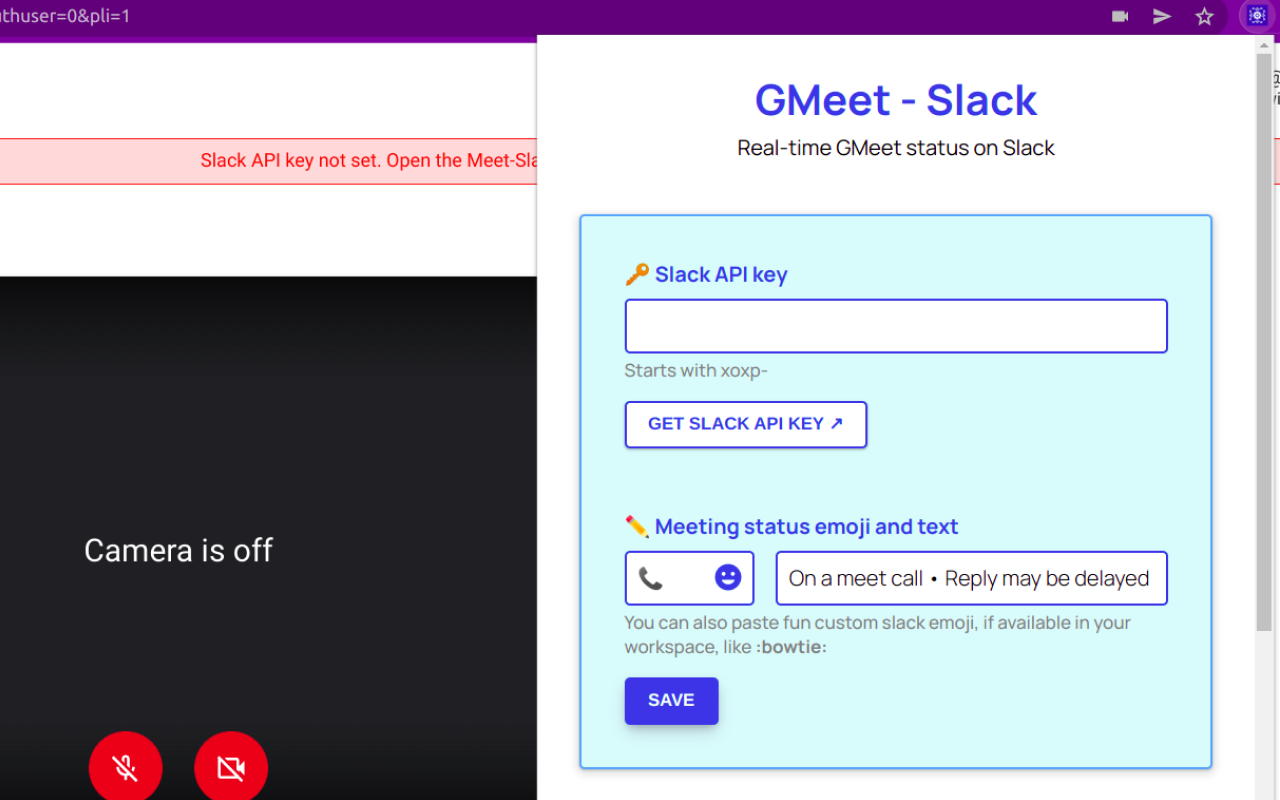
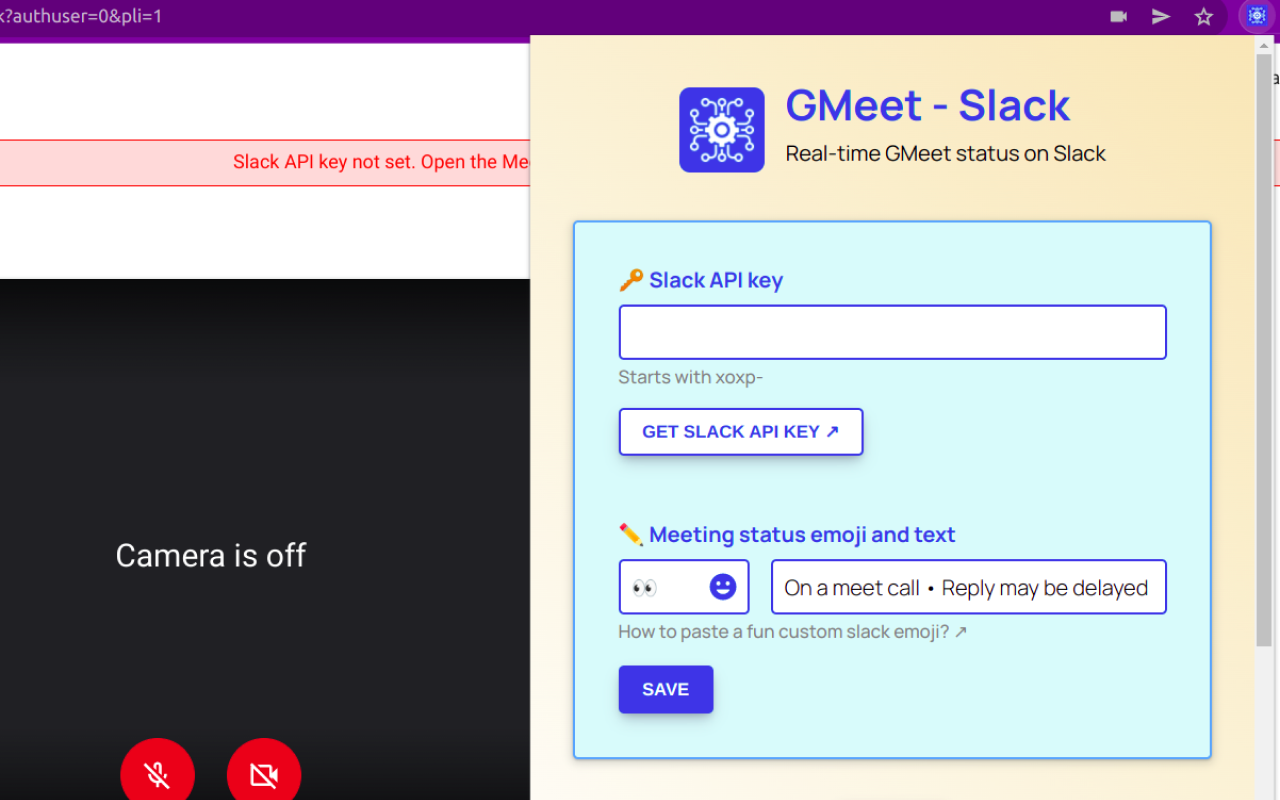
Update screenshot, title and help links

diff --git a/popup.html b/popup.html
@@ -56,7 +56,7 @@
 
 
     <div class="button-div" style="margin-bottom: 1rem;">
-      <a href="https://github.com/yakshaG/gmeet-slack-extension#faqs" target="_blank">
+      <a href="https://github.com/yakshaG/gmeet-slack-integration#faqs" target="_blank">
         <button class="button-secondary">HELP ↗</button>
       </a>
     </div>
@@ -64,8 +64,7 @@
 
 
     <div class="button-div">
-      <button class="button-secondary" id="revoke-button" style="color: red; border-color: red;">REVOKE SLACK API
-        KEY</button>
+      <button class="button-secondary" id="revoke-button" style="color: red; border-color: red;">REVOKE SLACK API KEY</button>
     </div>
 
     <p id="revoke-message" class="helper-text" style="text-align: center;"></p>

diff --git a/README.md b/README.md
@@ -19,7 +19,7 @@
 ## Configure chrome extension
 Once installed, open a new tab and type `meet.new` in the address bar, to join a test meeting. Now find and open the extension that has been installed from extensions list (puzzle icon).
 
-![extension-screenshot](https://user-images.githubusercontent.com/26523871/159924169-95582e06-253a-45ed-87a8-e63352b7e51c.png)
+![extension-screenshot](/extension_screenshot.png)
 
 Chrome extension requires three inputs:
 ### 1. Slack API key
